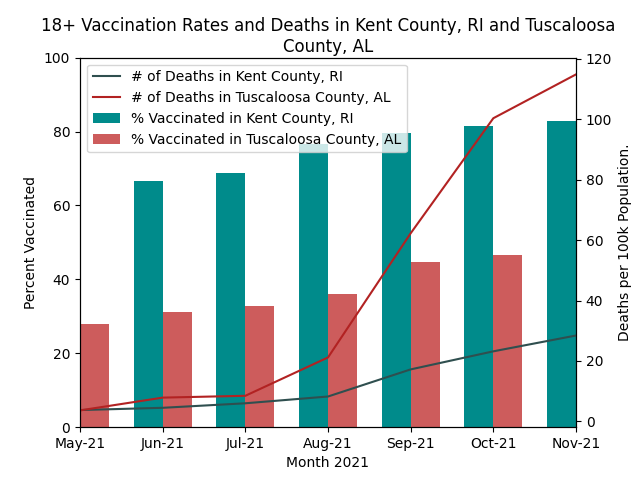
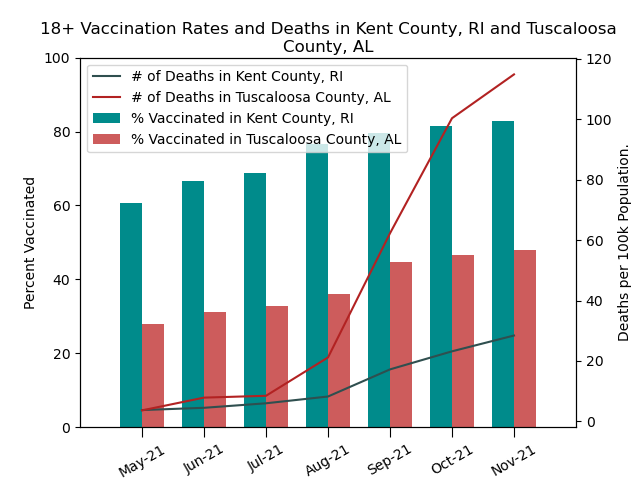
Changes to comparison.py with the updated graph

diff --git a/src/comparison.py b/src/comparison.py
@@ -53,11 +53,15 @@ def comparison(FIPS_1='44003', FIPS_2='01125'):
     FIPS_2_death = FIPS_2_death['Deaths_Per_1e5']
 
     fig,ax1 = plt.subplots() 
+    
+    plt.tick_params(axis='x', rotation=30 ,direction='out', length=len(x))
+    plt.figure(figsize=(len(x), 100))
     x = np.arange(len(labels))
-    width = 0.35 
+    width = 0.35
     ax1.set_xticks(x, labels)
     ax1.set_ylim(0, 100)
-    ax1.set_xlim(0,6)
+    ax1.set_xlim(-1,len(x))
+    
     ax1.set_title('18+ Vaccination Rates and Deaths in '+FIPS_1_name+" and "+FIPS_2_name, wrap=True)
     ax1.set_xlabel('Month 2021')
     ax1.set_ylabel('Percent Vaccinated') 
